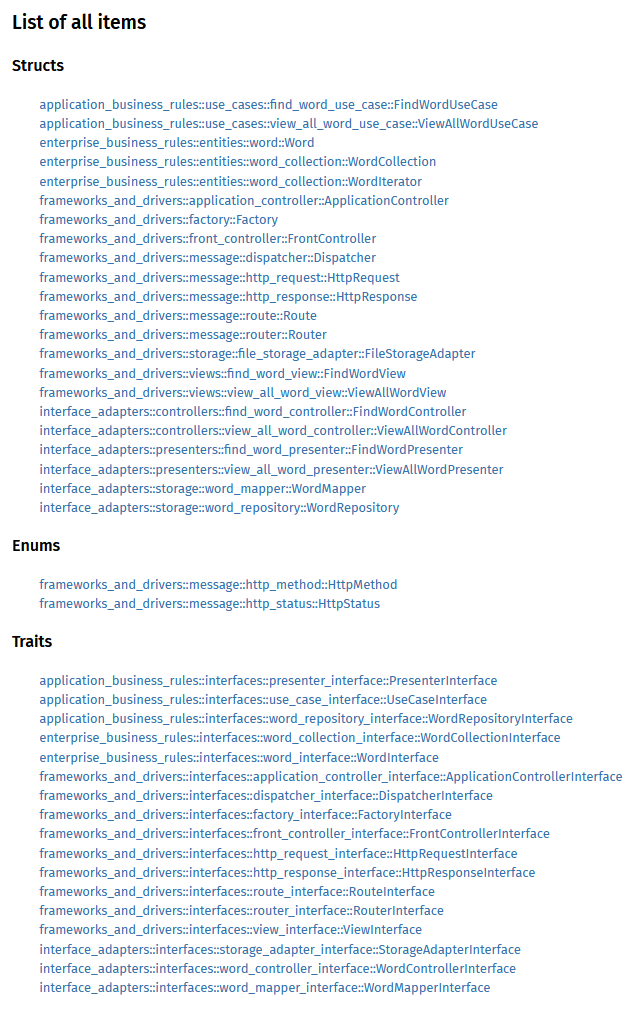
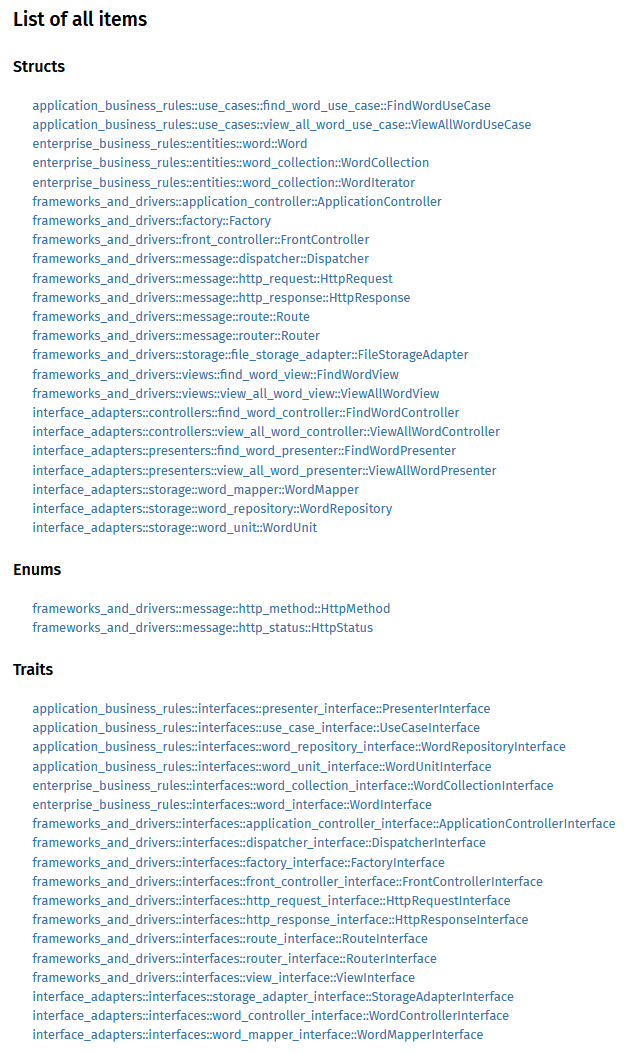
update

Changed region(s): [[0.0, 0.0, 0.962, 0.999]]

diff --git a/src/frameworks_and_drivers/front_controller.rs b/src/frameworks_and_drivers/front_controller.rs
@@ -1,5 +1,6 @@
 //@author Stanislav Polaniev <spolanyev@gmail.com>
 
+use crate::application_business_rules::interfaces::word_unit_interface::WordUnitInterface;
 use crate::frameworks_and_drivers::interfaces::dispatcher_interface::DispatcherInterface;
 use crate::frameworks_and_drivers::interfaces::front_controller_interface::FrontControllerInterface;
 use crate::frameworks_and_drivers::interfaces::http_request_interface::HttpRequestInterface;
@@ -7,35 +8,49 @@ use crate::frameworks_and_drivers::interfaces::http_response_interface::HttpResp
 use crate::frameworks_and_drivers::interfaces::route_interface::RouteInterface;
 use crate::frameworks_and_drivers::interfaces::router_interface::RouterInterface;
 
-pub struct FrontController<'a> {
-    dispatcher: &'a Box<dyn DispatcherInterface + 'a>,
+pub struct FrontController {
+    dispatcher: Box<dyn DispatcherInterface>,
     router: Box<dyn RouterInterface>,
+    word_unit: Box<dyn WordUnitInterface>,
 }
 
-impl<'a> FrontController<'a> {
+impl FrontController {
     pub fn new(
-        dispatcher: &'a Box<dyn DispatcherInterface + 'a>,
+        dispatcher: Box<dyn DispatcherInterface>,
         router: Box<dyn RouterInterface>,
+        word_unit: Box<dyn WordUnitInterface>,
     ) -> Self {
-        Self { dispatcher, router }
+        Self {
+            dispatcher,
+            router,
+            word_unit,
+        }
     }
 }
 
-impl<'a> FrontControllerInterface for FrontController<'a> {
+impl FrontControllerInterface for FrontController {
+    type UnitOfWork = Box<dyn WordUnitInterface>;
     type Request = Box<dyn HttpRequestInterface>;
     type Route = Box<dyn RouteInterface>;
     type Router = Box<dyn RouterInterface>;
     type Dispatcher = Box<dyn DispatcherInterface>;
     type Response = Box<dyn HttpResponseInterface>;
 
-    fn delegate(&self, request: Self::Request) -> Self::Response {
-        self.dispatcher.dispatch(&self.router, request)
+    fn delegate(&mut self, request: Self::Request) -> Self::Response {
+        self.dispatcher
+            .dispatch(&self.router, request, &mut self.word_unit)
+    }
+
+    fn commit_changes(&mut self) {
+        self.word_unit.commit();
     }
 }
 
 #[cfg(test)]
 mod tests {
     use super::*;
+    use crate::application_business_rules::interfaces::word_unit_interface::WordUnitInterface;
+    use crate::enterprise_business_rules::interfaces::word_interface::WordInterface;
     use crate::frameworks_and_drivers::factory::Factory;
     use crate::frameworks_and_drivers::interfaces::factory_interface::FactoryInterface;
     use crate::frameworks_and_drivers::message::dispatcher::Dispatcher;
@@ -43,6 +58,7 @@ mod tests {
     use crate::frameworks_and_drivers::message::http_request::HttpRequest;
     use crate::frameworks_and_drivers::message::route::Route;
     use crate::frameworks_and_drivers::message::router::Router;
+    use crate::interface_adapters::storage::word_unit::WordUnit;
 
     #[test]
     fn find_word() {
@@ -58,11 +74,18 @@ mod tests {
 
         router.add_route(route);
 
+        let word_unit: Box<dyn WordUnitInterface> = {
+            let words: Vec<Box<dyn WordInterface>> = vec![];
+            let mut word_unit = Box::new(WordUnit::new());
+            word_unit.set_identity_map(words, false);
+            word_unit
+        };
+
         let factory: Box<dyn FactoryInterface> = Box::new(Factory::new());
 
-        let dispatcher: Box<dyn DispatcherInterface> = Box::new(Dispatcher::new(&factory));
+        let dispatcher: Box<dyn DispatcherInterface> = Box::new(Dispatcher::new(factory));
 
-        let front_controller = FrontController::new(&dispatcher, router);
+        let mut front_controller = FrontController::new(dispatcher, router, word_unit);
 
         let http_response = front_controller.delegate(http_request);
 
@@ -81,6 +104,8 @@ mod tests {
         assert!(http_response
             .view_response()
             .contains("Word \"qazxsw\" is not found"));
+
+        front_controller.commit_changes();
     }
 
     #[test]
@@ -94,16 +119,20 @@ mod tests {
 
         router.add_route(route);
 
+        let word_unit: Box<dyn WordUnitInterface> = Box::new(WordUnit::new());
+
         let factory: Box<dyn FactoryInterface> = Box::new(Factory::new());
 
-        let dispatcher: Box<dyn DispatcherInterface> = Box::new(Dispatcher::new(&factory));
+        let dispatcher: Box<dyn DispatcherInterface> = Box::new(Dispatcher::new(factory));
 
-        let front_controller = FrontController::new(&dispatcher, router);
+        let mut front_controller = FrontController::new(dispatcher, router, word_unit);
 
         let http_response = front_controller.delegate(http_request);
 
         assert!(["ability", "able", "a"]
             .iter()
             .all(|&word| http_response.view_response().contains(word)));
+
+        front_controller.commit_changes();
     }
 }

diff --git a/src/main.rs b/src/main.rs
@@ -1,5 +1,6 @@
 //@author Stanislav Polaniev <spolanyev@gmail.com>
 
+use dictionary::application_business_rules::interfaces::word_unit_interface::WordUnitInterface;
 use dictionary::frameworks_and_drivers::factory::Factory;
 use dictionary::frameworks_and_drivers::front_controller::FrontController;
 use dictionary::frameworks_and_drivers::interfaces::dispatcher_interface::DispatcherInterface;
@@ -15,26 +16,27 @@ use dictionary::frameworks_and_drivers::message::http_response::HttpResponse;
 use dictionary::frameworks_and_drivers::message::http_status::HttpStatus;
 use dictionary::frameworks_and_drivers::message::route::Route;
 use dictionary::frameworks_and_drivers::message::router::Router;
+use dictionary::interface_adapters::storage::word_unit::WordUnit;
 use std::net::TcpListener;
 use std::thread;
 
 fn main() {
-    let mut routes = vec![
-        Route::new(HttpMethod::Get, "/words/*", "find_word"),
-        Route::new(HttpMethod::Get, "/words", "view_all"),
-    ];
-
-    let mut router: Box<dyn RouterInterface> = Box::new(Router::new());
-
-    while let Some(route) = routes.pop() {
-        router.add_route(Box::new(route));
-    }
-
     let factory: Box<dyn FactoryInterface> = Box::new(Factory::new());
+    let dispatcher: Box<dyn DispatcherInterface> = Box::new(Dispatcher::new(factory));
+    let word_unit: Box<dyn WordUnitInterface> = Box::new(WordUnit::new());
+    let router: Box<dyn RouterInterface> = {
+        let mut routes = vec![
+            Route::new(HttpMethod::Get, "/words/*", "find_word"),
+            Route::new(HttpMethod::Get, "/words", "view_all"),
+        ];
 
-    let dispatcher: Box<dyn DispatcherInterface> = Box::new(Dispatcher::new(&factory));
-
-    let front_controller = FrontController::new(&dispatcher, router);
+        let mut router = Box::new(Router::new());
+        while let Some(route) = routes.pop() {
+            router.add_route(Box::new(route));
+        }
+        router
+    };
+    let mut front_controller = FrontController::new(dispatcher, router, word_unit);
 
     let listener = TcpListener::bind("127.0.0.1:80").expect("Failed to bind TcpListener");
     for tcp_stream in listener.incoming() {
@@ -45,6 +47,7 @@ fn main() {
                 if let Some(http_request) = http_request {
                     let http_request: Box<dyn HttpRequestInterface> = Box::new(http_request);
                     let http_response = front_controller.delegate(http_request);
+                    front_controller.commit_changes();
                     http_response.respond(tcp_stream);
                 } else {
                     let mut http_response = HttpResponse::new();
